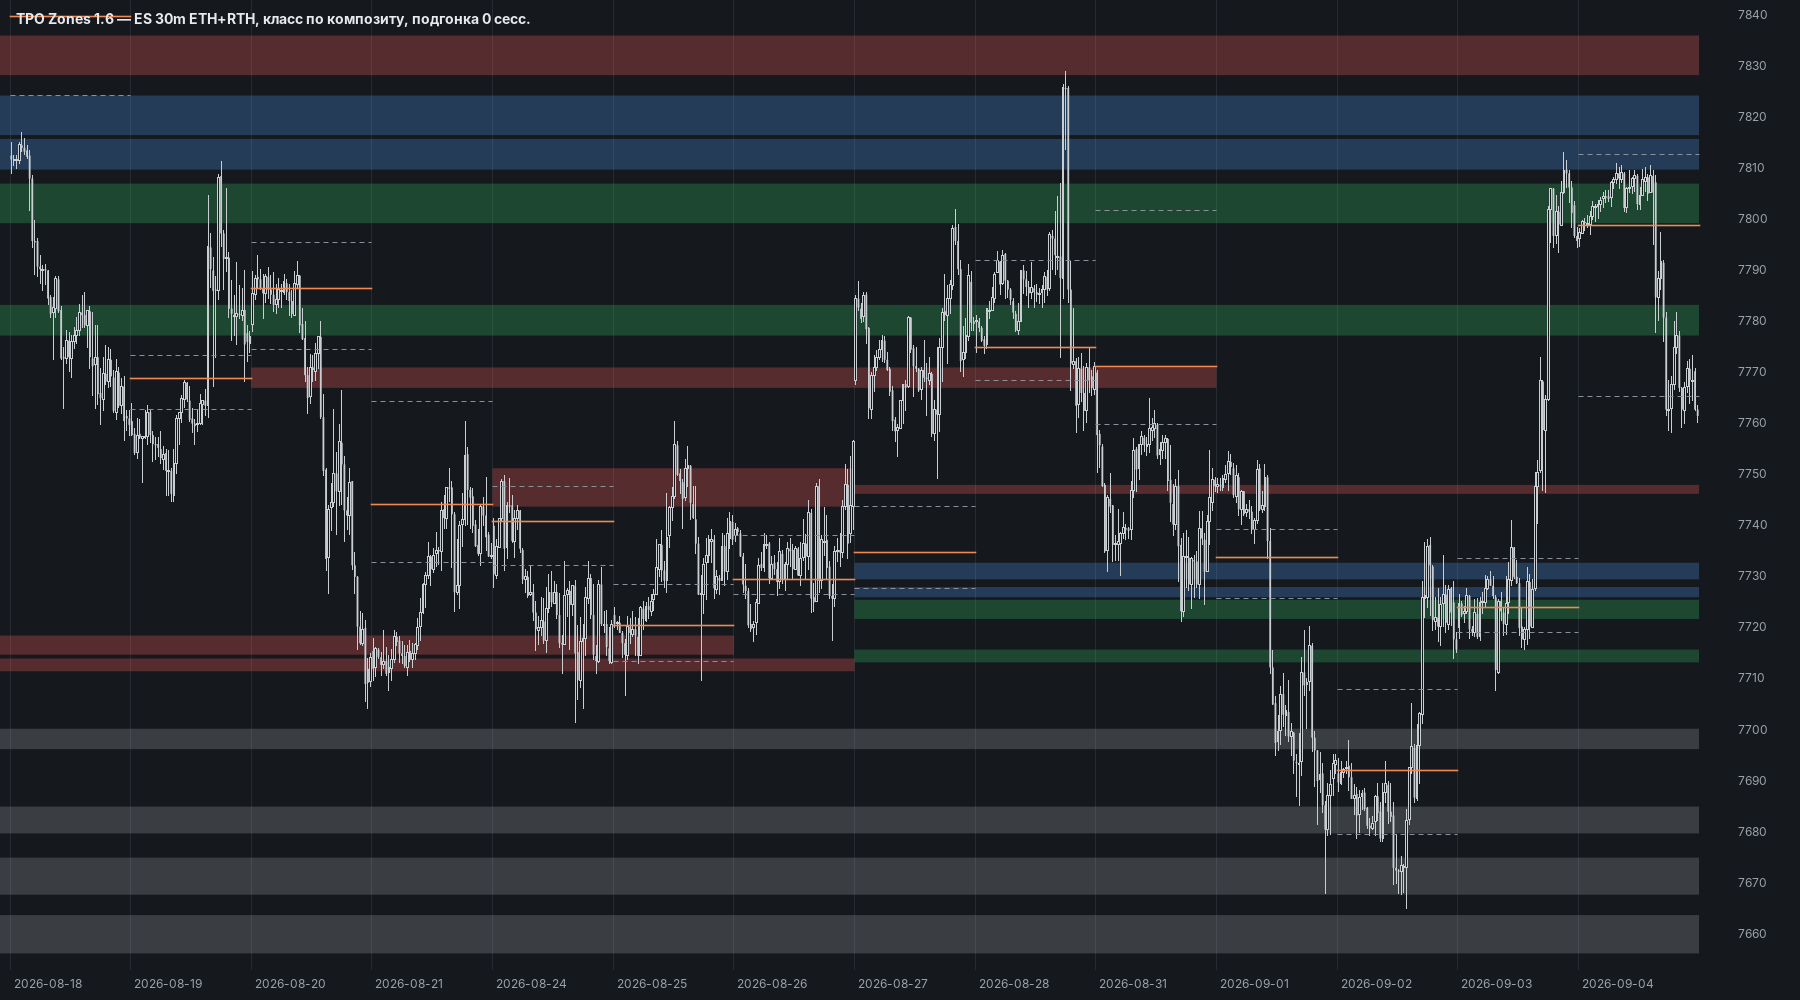
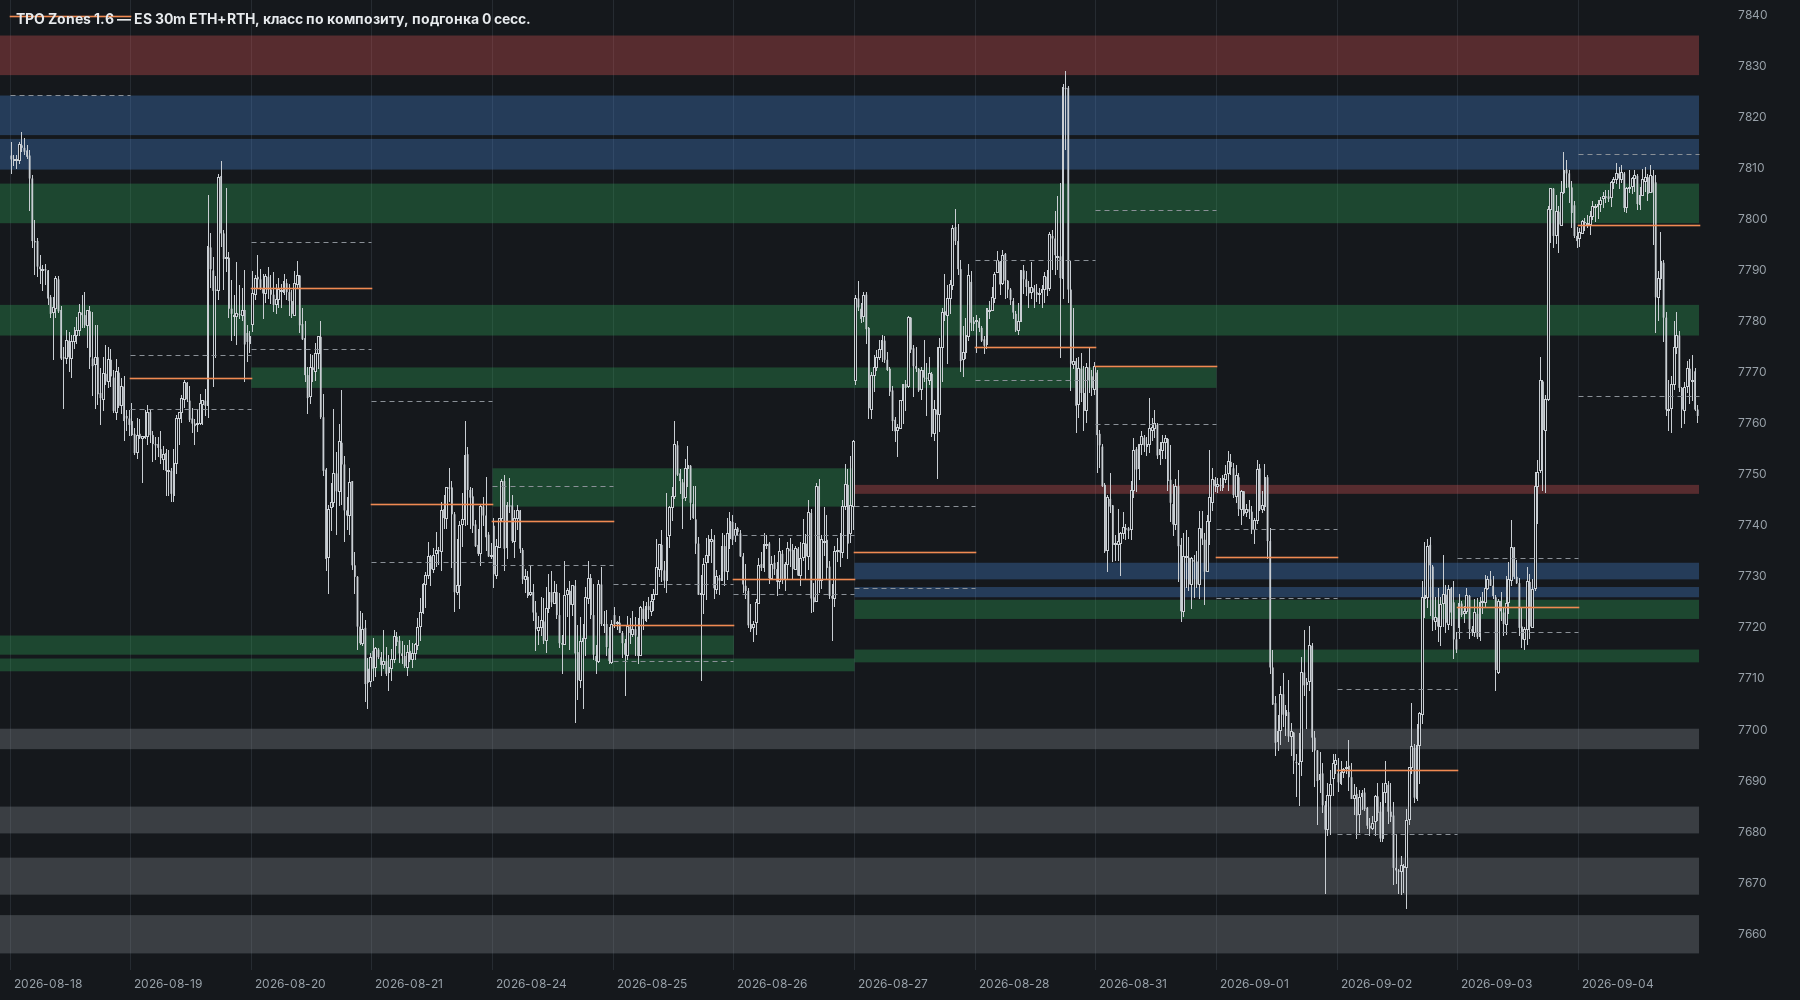
Fix composite core at zero in partition mode
With the partition the composite core is not drawn, so it skipped the
bounds pass and kept blo/bhi = 0. Every daily HVN zone outside a composite
body was then 'above the core' and came out as resistance (e.g. the support
zones 7362.50-7369.75 and 7373.00-7378.50 below the 2026-06-05..12 core
turned red on 06-15). Undrawn cores now take their own bounds.

Claude-Session: https://claude.ai/code/session_01PTkoju45i5ZphCgSn4vnkL

Changed region(s): [[0.1244, 0.341, 0.6844, 0.403], [0.0, 0.62, 0.4978, 0.682], [0.2489, 0.465, 0.4978, 0.527]]

diff --git a/motivewave/src/patterns/zones/ZoneEngine.java b/motivewave/src/patterns/zones/ZoneEngine.java
@@ -518,6 +518,7 @@ public final class ZoneEngine {
             // ядро, нарисованное узлами, в списке зон нет: его границы — от нижнего до верхнего узла
             for (Comp c : res.comps) {
                 Zone e = c.core;
+                if (!zones.contains(e) && e.nodes.isEmpty()) { e.blo = e.lo; e.bhi = e.hi; }   // ядро не на графике (разметка)
                 if (e.nodes.isEmpty()) continue;
                 e.blo = Double.MAX_VALUE; e.bhi = -Double.MAX_VALUE;
                 for (Zone nz : e.nodes) { e.blo = Math.min(e.blo, nz.blo); e.bhi = Math.max(e.bhi, nz.bhi); }
